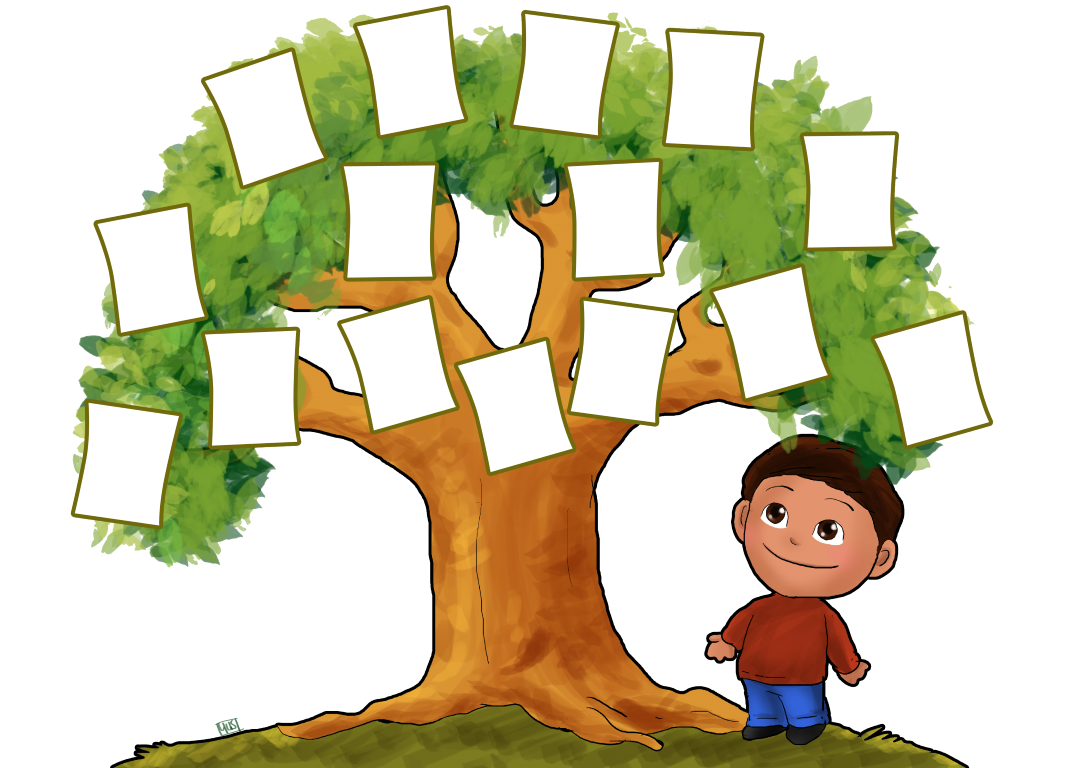
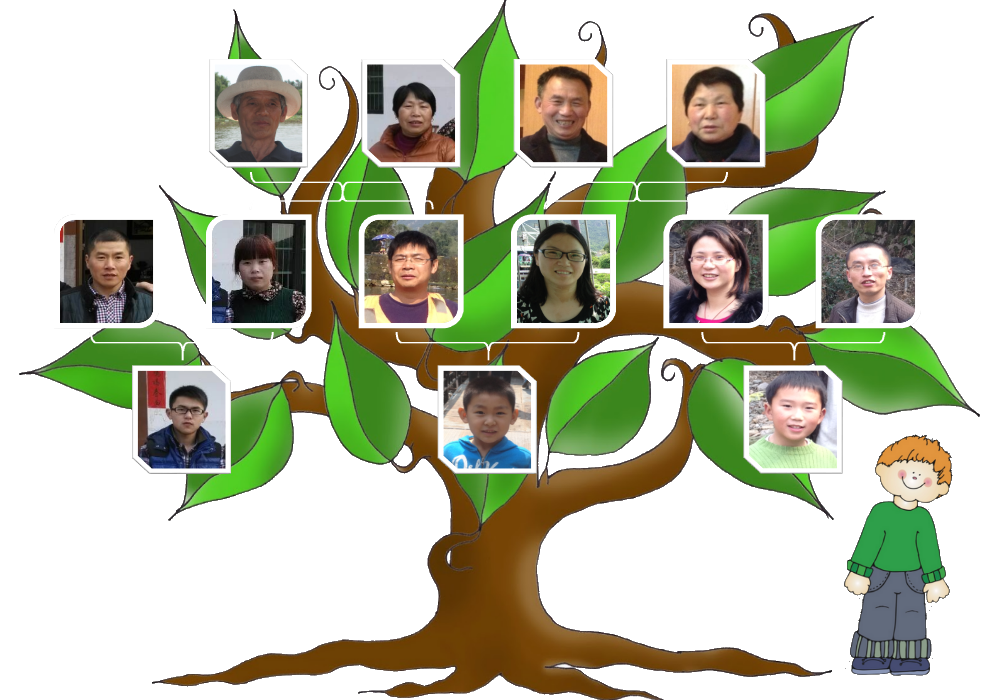
add family tree

diff --git a/js/app.js b/js/app.js
@@ -160,8 +160,20 @@ app.controller("stroriesCtrl", function ($scope, $timeout){
 
 app.controller("familyCtrl", function ($scope, $timeout){
 	$scope.persons = [
-	{"name": "zhigao", "shape": "rect", "coords": "0, 0, 200, 200"},
-	{"name": "aiqin", "shape": "rect", "coords": "200, 200, 400, 400"},
+	{"name": "zhigao's father", "shape": "rect", "coords": "209, 59, 309, 166"},
+	{"name": "zhigao's mother", "shape": "rect", "coords": "360, 59, 460, 166"},
+	{"name": "aiqin's father", "shape": "rect", "coords": "514, 59, 614, 166"},
+	{"name": "aiqin's mother", "shape": "rect", "coords": "666, 59, 766, 166"},
+	{"name": "zhigao's brother in law", "shape": "rect", "coords": "53, 214, 158, 328"},
+	{"name": "zhigao's sister", "shape": "rect", "coords": "205, 214, 312, 328"},
+	{"name": "zhigao", "shape": "rect", "coords": "357, 214, 463, 328"},
+	{"name": "aiqin", "shape": "rect", "coords": "511, 214, 617, 328"},
+	{"name": "aiqin's sister", "shape": "rect", "coords": "663, 214, 769, 328"},
+	{"name": "aiqin's brother in law", "shape": "rect", "coords": "815, 214, 920, 328"},
+	{"name": "zhigao's nephew", "shape": "rect", "coords": "131, 364, 231, 473"},
+	{"name": "doudou", "shape": "rect", "coords": "437, 365, 536, 473"},
+	{"name": "aiqin's nephew", "shape": "rect", "coords": "743, 364, 843, 473"},
+
 	];
 
 	$scope.personintro = "person information";

diff --git a/pages/footprint.html b/pages/footprint.html
@@ -15,7 +15,8 @@
 	</div>
 	<div class="col-md-4" >
 		<div style="border-radius: 20px/20px;background: #B9D998; height: 500px;" > 
-			<h2 style="padding: 20px">{{activePlace.location}}</h2>
+			
+			<div style="padding-left: 20px; padding-top:20px; font-size: 200%; font-weight: bold;">{{activePlace.location}}</div>
 
 			<div style="padding-left: 20px; padding-right: 20px" ng-bind-html="activePlace.description">
 			</div>
